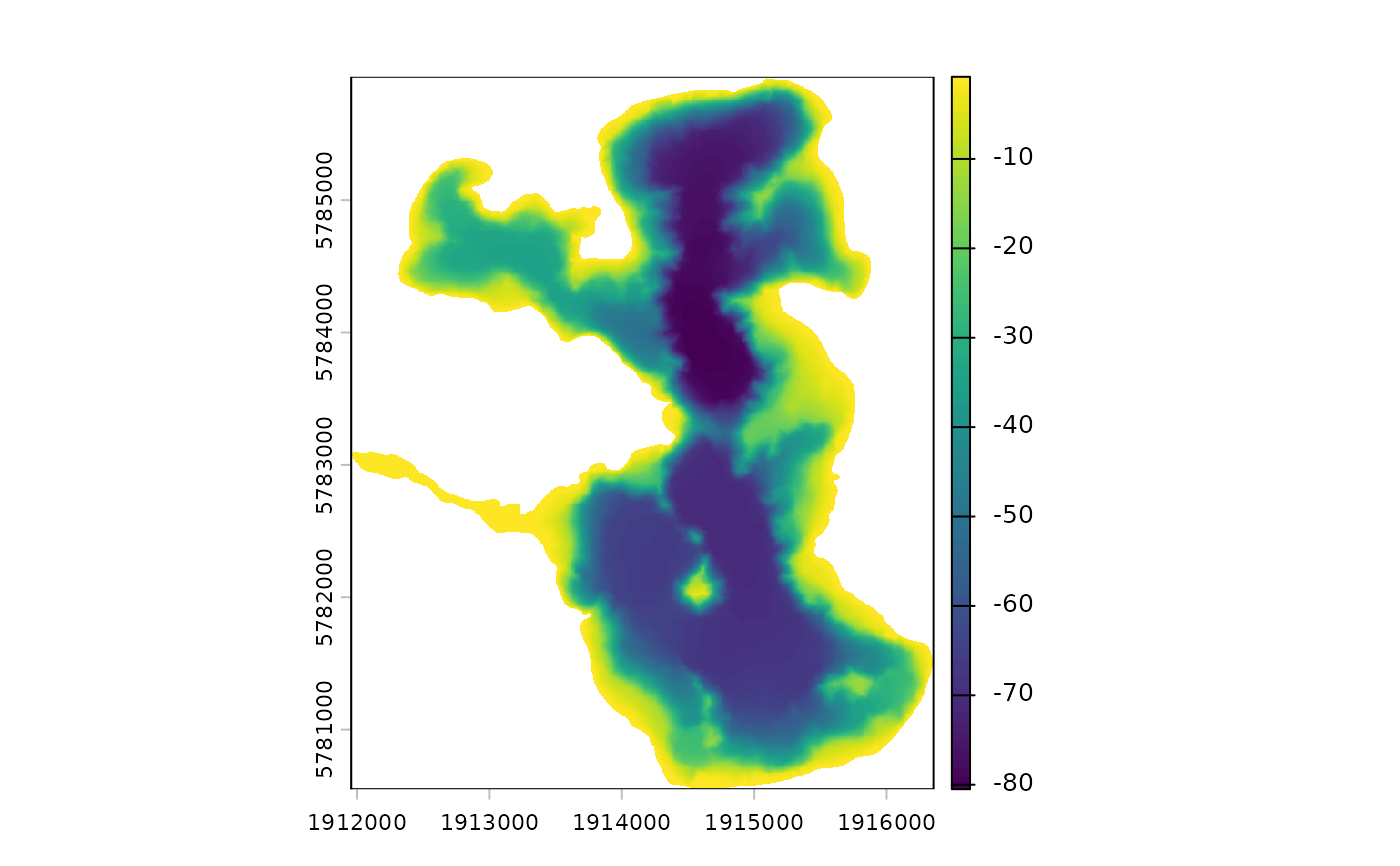
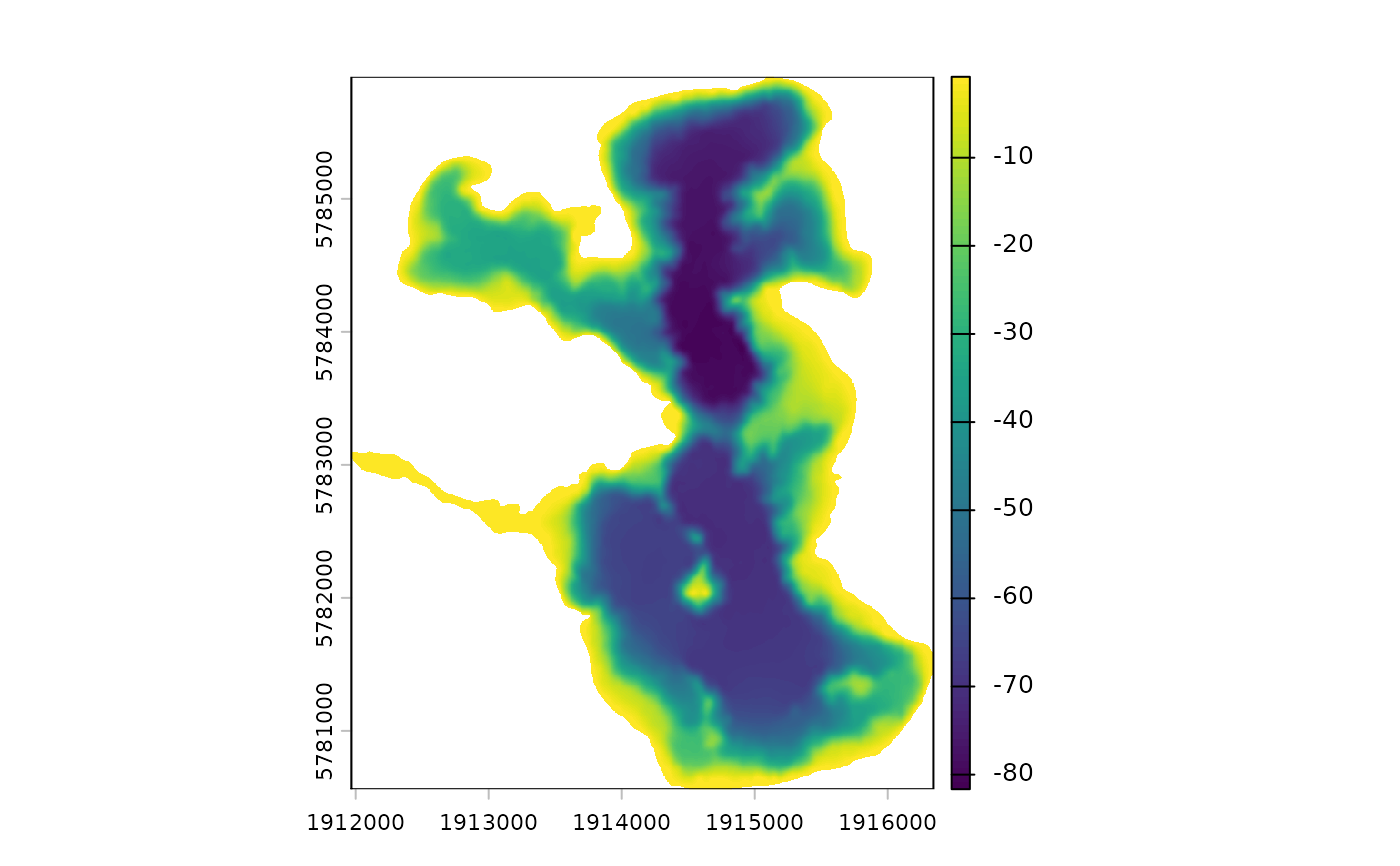
Deploying to gh-pages from @ limnotrack/bathytools@150190e74ad7a222cf4fa09d20802bcaa72053f2 🚀

diff --git a/reference/bathy_to_hypso.html b/reference/bathy_to_hypso.html
@@ -88,12 +88,17 @@ is <code>NULL</code>.</p></dd>
 <span class="r-in"><span>package <span class="op">=</span> <span class="st">"bathytools"</span><span class="op">)</span><span class="op">)</span></span></span>
 <span class="r-in"><span><span class="va">bathy_raster</span> <span class="op">&lt;-</span> <span class="fu"><a href="rasterise_bathy.html">rasterise_bathy</a></span><span class="op">(</span>shoreline <span class="op">=</span> <span class="va">shoreline</span>,</span></span>
 <span class="r-in"><span>depth_points <span class="op">=</span> <span class="va">depth_points</span>, crs <span class="op">=</span> <span class="fl">2193</span><span class="op">)</span></span></span>
-<span class="r-msg co"><span class="r-pr">#&gt;</span> Generating depth points... [2026-06-16 03:13:43]</span>
-<span class="r-msg co"><span class="r-pr">#&gt;</span> Finished! [2026-06-16 03:13:44]</span>
-<span class="r-msg co"><span class="r-pr">#&gt;</span> Interpolating to raster... [2026-06-16 03:13:44]</span>
+<span class="r-msg co"><span class="r-pr">#&gt;</span> <span style="color: #00BBBB;">ℹ</span> Generating depth points for interpolation</span>
+<span class="r-msg co"><span class="r-pr">#&gt;</span> Generating depth points... [2026-06-16 03:27:47]</span>
+<span class="r-msg co"><span class="r-pr">#&gt;</span> Finished! [2026-06-16 03:27:47]</span>
+<span class="r-msg co"><span class="r-pr">#&gt;</span> <span style="color: #00BB00;">✔</span> Generating depth points for interpolation <span style="color: #B2B2B2;">[245ms]</span></span>
+<span class="r-msg co"><span class="r-pr">#&gt;</span> </span>
+<span class="r-msg co"><span class="r-pr">#&gt;</span> <span style="color: #00BBBB;">ℹ</span> Interpolating depth points to raster</span>
 <span class="r-msg co"><span class="r-pr">#&gt;</span> Adjusting depths &gt;= 0 to  -0.81 m</span>
-<span class="r-msg co"><span class="r-pr">#&gt;</span> Finished! [2026-06-16 03:15:54]</span>
+<span class="r-msg co"><span class="r-pr">#&gt;</span> Finished! [2026-06-16 03:29:52]</span>
 <span class="r-plt img"><img src="bathy_to_hypso-1.png" alt="" width="700" height="433"></span>
+<span class="r-msg co"><span class="r-pr">#&gt;</span> <span style="color: #00BB00;">✔</span> Interpolating depth points to raster <span style="color: #B2B2B2;">[2m 5.7s]</span></span>
+<span class="r-msg co"><span class="r-pr">#&gt;</span> </span>
 <span class="r-in"><span><span class="va">hyps</span> <span class="op">&lt;-</span> <span class="fu">bathy_to_hypso</span><span class="op">(</span>bathy_raster <span class="op">=</span> <span class="va">bathy_raster</span><span class="op">)</span></span></span>
 </code></pre></div>
     </div>

diff --git a/reference/calculate_lake_volume.html b/reference/calculate_lake_volume.html
@@ -88,12 +88,17 @@ in each grid cell is returned.</p>
 <span class="r-in"><span>package <span class="op">=</span> <span class="st">"bathytools"</span><span class="op">)</span><span class="op">)</span></span></span>
 <span class="r-in"><span><span class="va">bathy_raster</span> <span class="op">&lt;-</span> <span class="fu"><a href="rasterise_bathy.html">rasterise_bathy</a></span><span class="op">(</span>shoreline <span class="op">=</span> <span class="va">shoreline</span>,</span></span>
 <span class="r-in"><span>depth_points <span class="op">=</span> <span class="va">depth_points</span>, crs <span class="op">=</span> <span class="fl">2193</span><span class="op">)</span></span></span>
-<span class="r-msg co"><span class="r-pr">#&gt;</span> Generating depth points... [2026-06-16 03:15:59]</span>
-<span class="r-msg co"><span class="r-pr">#&gt;</span> Finished! [2026-06-16 03:15:59]</span>
-<span class="r-msg co"><span class="r-pr">#&gt;</span> Interpolating to raster... [2026-06-16 03:15:59]</span>
+<span class="r-msg co"><span class="r-pr">#&gt;</span> <span style="color: #00BBBB;">ℹ</span> Generating depth points for interpolation</span>
+<span class="r-msg co"><span class="r-pr">#&gt;</span> Generating depth points... [2026-06-16 03:29:57]</span>
+<span class="r-msg co"><span class="r-pr">#&gt;</span> Finished! [2026-06-16 03:29:57]</span>
+<span class="r-msg co"><span class="r-pr">#&gt;</span> <span style="color: #00BB00;">✔</span> Generating depth points for interpolation <span style="color: #B2B2B2;">[185ms]</span></span>
+<span class="r-msg co"><span class="r-pr">#&gt;</span> </span>
+<span class="r-msg co"><span class="r-pr">#&gt;</span> <span style="color: #00BBBB;">ℹ</span> Interpolating depth points to raster</span>
 <span class="r-msg co"><span class="r-pr">#&gt;</span> Adjusting depths &gt;= 0 to  -0.81 m</span>
-<span class="r-msg co"><span class="r-pr">#&gt;</span> Finished! [2026-06-16 03:18:05]</span>
+<span class="r-msg co"><span class="r-pr">#&gt;</span> Finished! [2026-06-16 03:31:58]</span>
 <span class="r-plt img"><img src="calculate_lake_volume-1.png" alt="" width="700" height="433"></span>
+<span class="r-msg co"><span class="r-pr">#&gt;</span> <span style="color: #00BB00;">✔</span> Interpolating depth points to raster <span style="color: #B2B2B2;">[2m 2s]</span></span>
+<span class="r-msg co"><span class="r-pr">#&gt;</span> </span>
 <span class="r-in"><span><span class="fu">calculate_lake_volume</span><span class="op">(</span>bathy_raster <span class="op">=</span> <span class="va">bathy_raster</span><span class="op">)</span></span></span>
 <span class="r-out co"><span class="r-pr">#&gt;</span> [1] 435637277</span>
 <span class="r-in"><span></span></span>

diff --git a/reference/get_contours.html b/reference/get_contours.html
@@ -79,12 +79,17 @@ is <code>NULL</code>.</p></dd>
 <span class="r-in"><span>package <span class="op">=</span> <span class="st">"bathytools"</span><span class="op">)</span><span class="op">)</span></span></span>
 <span class="r-in"><span><span class="va">bathy_raster</span> <span class="op">&lt;-</span> <span class="fu"><a href="rasterise_bathy.html">rasterise_bathy</a></span><span class="op">(</span>shoreline <span class="op">=</span> <span class="va">shoreline</span>,</span></span>
 <span class="r-in"><span>depth_points <span class="op">=</span> <span class="va">depth_points</span>, crs <span class="op">=</span> <span class="fl">2193</span>, res <span class="op">=</span> <span class="fl">8</span><span class="op">)</span></span></span>
-<span class="r-msg co"><span class="r-pr">#&gt;</span> Generating depth points... [2026-06-16 03:18:11]</span>
-<span class="r-msg co"><span class="r-pr">#&gt;</span> Finished! [2026-06-16 03:18:11]</span>
-<span class="r-msg co"><span class="r-pr">#&gt;</span> Interpolating to raster... [2026-06-16 03:18:11]</span>
+<span class="r-msg co"><span class="r-pr">#&gt;</span> <span style="color: #00BBBB;">ℹ</span> Generating depth points for interpolation</span>
+<span class="r-msg co"><span class="r-pr">#&gt;</span> Generating depth points... [2026-06-16 03:32:05]</span>
+<span class="r-msg co"><span class="r-pr">#&gt;</span> Finished! [2026-06-16 03:32:05]</span>
+<span class="r-msg co"><span class="r-pr">#&gt;</span> <span style="color: #00BB00;">✔</span> Generating depth points for interpolation <span style="color: #B2B2B2;">[191ms]</span></span>
+<span class="r-msg co"><span class="r-pr">#&gt;</span> </span>
+<span class="r-msg co"><span class="r-pr">#&gt;</span> <span style="color: #00BBBB;">ℹ</span> Interpolating depth points to raster</span>
 <span class="r-msg co"><span class="r-pr">#&gt;</span> Adjusting depths &gt;= 0 to  -0.81 m</span>
-<span class="r-msg co"><span class="r-pr">#&gt;</span> Finished! [2026-06-16 03:18:29]</span>
+<span class="r-msg co"><span class="r-pr">#&gt;</span> Finished! [2026-06-16 03:32:23]</span>
 <span class="r-plt img"><img src="get_contours-1.png" alt="" width="700" height="433"></span>
+<span class="r-msg co"><span class="r-pr">#&gt;</span> <span style="color: #00BB00;">✔</span> Interpolating depth points to raster <span style="color: #B2B2B2;">[18.7s]</span></span>
+<span class="r-msg co"><span class="r-pr">#&gt;</span> </span>
 <span class="r-in"><span><span class="va">contours</span> <span class="op">&lt;-</span> <span class="fu">get_contours</span><span class="op">(</span>bathy_raster <span class="op">=</span> <span class="va">bathy_raster</span><span class="op">)</span></span></span>
 </code></pre></div>
     </div>

diff --git a/reference/get_shoreline.html b/reference/get_shoreline.html
@@ -71,12 +71,17 @@ shoreline will not be simplified.</p></dd>
 <span class="r-in"><span>package <span class="op">=</span> <span class="st">"bathytools"</span><span class="op">)</span><span class="op">)</span></span></span>
 <span class="r-in"><span><span class="va">bathy_raster</span> <span class="op">&lt;-</span> <span class="fu"><a href="rasterise_bathy.html">rasterise_bathy</a></span><span class="op">(</span>shoreline <span class="op">=</span> <span class="va">shoreline</span>,</span></span>
 <span class="r-in"><span>depth_points <span class="op">=</span> <span class="va">depth_points</span>, crs <span class="op">=</span> <span class="fl">2193</span>, res <span class="op">=</span> <span class="fl">8</span><span class="op">)</span></span></span>
-<span class="r-msg co"><span class="r-pr">#&gt;</span> Generating depth points... [2026-06-16 03:18:30]</span>
-<span class="r-msg co"><span class="r-pr">#&gt;</span> Finished! [2026-06-16 03:18:31]</span>
-<span class="r-msg co"><span class="r-pr">#&gt;</span> Interpolating to raster... [2026-06-16 03:18:31]</span>
+<span class="r-msg co"><span class="r-pr">#&gt;</span> <span style="color: #00BBBB;">ℹ</span> Generating depth points for interpolation</span>
+<span class="r-msg co"><span class="r-pr">#&gt;</span> Generating depth points... [2026-06-16 03:32:25]</span>
+<span class="r-msg co"><span class="r-pr">#&gt;</span> Finished! [2026-06-16 03:32:25]</span>
+<span class="r-msg co"><span class="r-pr">#&gt;</span> <span style="color: #00BB00;">✔</span> Generating depth points for interpolation <span style="color: #B2B2B2;">[253ms]</span></span>
+<span class="r-msg co"><span class="r-pr">#&gt;</span> </span>
+<span class="r-msg co"><span class="r-pr">#&gt;</span> <span style="color: #00BBBB;">ℹ</span> Interpolating depth points to raster</span>
 <span class="r-msg co"><span class="r-pr">#&gt;</span> Adjusting depths &gt;= 0 to  -0.81 m</span>
-<span class="r-msg co"><span class="r-pr">#&gt;</span> Finished! [2026-06-16 03:18:49]</span>
+<span class="r-msg co"><span class="r-pr">#&gt;</span> Finished! [2026-06-16 03:32:43]</span>
 <span class="r-plt img"><img src="get_shoreline-1.png" alt="" width="700" height="433"></span>
+<span class="r-msg co"><span class="r-pr">#&gt;</span> <span style="color: #00BB00;">✔</span> Interpolating depth points to raster <span style="color: #B2B2B2;">[18.7s]</span></span>
+<span class="r-msg co"><span class="r-pr">#&gt;</span> </span>
 <span class="r-in"><span><span class="va">shoreline2</span> <span class="op">&lt;-</span> <span class="fu">get_shoreline</span><span class="op">(</span>bathy_raster <span class="op">=</span> <span class="va">bathy_raster</span><span class="op">)</span></span></span>
 </code></pre></div>
     </div>

diff --git a/reference/merge_bathy_dem.html b/reference/merge_bathy_dem.html
@@ -98,12 +98,17 @@ to the catchment boundary. Requires catchment to be provided.</p></dd>
 <span class="r-in"><span>package <span class="op">=</span> <span class="st">"bathytools"</span><span class="op">)</span><span class="op">)</span></span></span>
 <span class="r-in"><span><span class="va">bathy_raster</span> <span class="op">&lt;-</span> <span class="fu"><a href="rasterise_bathy.html">rasterise_bathy</a></span><span class="op">(</span>shoreline <span class="op">=</span> <span class="va">shoreline</span>,</span></span>
 <span class="r-in"><span>depth_points <span class="op">=</span> <span class="va">depth_points</span>, crs <span class="op">=</span> <span class="fl">2193</span><span class="op">)</span></span></span>
-<span class="r-msg co"><span class="r-pr">#&gt;</span> Generating depth points... [2026-06-16 03:21:00]</span>
-<span class="r-msg co"><span class="r-pr">#&gt;</span> Finished! [2026-06-16 03:21:00]</span>
-<span class="r-msg co"><span class="r-pr">#&gt;</span> Interpolating to raster... [2026-06-16 03:21:00]</span>
+<span class="r-msg co"><span class="r-pr">#&gt;</span> <span style="color: #00BBBB;">ℹ</span> Generating depth points for interpolation</span>
+<span class="r-msg co"><span class="r-pr">#&gt;</span> Generating depth points... [2026-06-16 03:32:59]</span>
+<span class="r-msg co"><span class="r-pr">#&gt;</span> Finished! [2026-06-16 03:32:59]</span>
+<span class="r-msg co"><span class="r-pr">#&gt;</span> <span style="color: #00BB00;">✔</span> Generating depth points for interpolation <span style="color: #B2B2B2;">[182ms]</span></span>
+<span class="r-msg co"><span class="r-pr">#&gt;</span> </span>
+<span class="r-msg co"><span class="r-pr">#&gt;</span> <span style="color: #00BBBB;">ℹ</span> Interpolating depth points to raster</span>
 <span class="r-msg co"><span class="r-pr">#&gt;</span> Adjusting depths &gt;= 0 to  -0.81 m</span>
-<span class="r-msg co"><span class="r-pr">#&gt;</span> Finished! [2026-06-16 03:23:05]</span>
+<span class="r-msg co"><span class="r-pr">#&gt;</span> Finished! [2026-06-16 03:34:59]</span>
 <span class="r-plt img"><img src="merge_bathy_dem-1.png" alt="" width="700" height="433"></span>
+<span class="r-msg co"><span class="r-pr">#&gt;</span> <span style="color: #00BB00;">✔</span> Interpolating depth points to raster <span style="color: #B2B2B2;">[2m 0.3s]</span></span>
+<span class="r-msg co"><span class="r-pr">#&gt;</span> </span>
 <span class="r-in"><span><span class="va">dem_raster</span> <span class="op">&lt;-</span> <span class="fu">terra</span><span class="fu">::</span><span class="fu"><a href="https://rspatial.github.io/terra/reference/rast.html" class="external-link">rast</a></span><span class="op">(</span><span class="fu"><a href="https://rdrr.io/r/base/system.file.html" class="external-link">system.file</a></span><span class="op">(</span><span class="st">"extdata/dem_32m.tif"</span>,</span></span>
 <span class="r-in"><span>package <span class="op">=</span> <span class="st">"bathytools"</span><span class="op">)</span><span class="op">)</span></span></span>
 <span class="r-in"><span><span class="va">dem_bath</span> <span class="op">&lt;-</span> <span class="fu">merge_bathy_dem</span><span class="op">(</span>shoreline <span class="op">=</span> <span class="va">shoreline</span>, bathy_raster <span class="op">=</span> <span class="va">bathy_raster</span>,</span></span>

diff --git a/reference/rasterise_bathy.html b/reference/rasterise_bathy.html
@@ -136,12 +136,17 @@ and inverse distance weighting ('idw').</p></dd>
 <span class="r-in"><span>package <span class="op">=</span> <span class="st">"bathytools"</span><span class="op">)</span><span class="op">)</span></span></span>
 <span class="r-in"><span><span class="va">bathy</span> <span class="op">&lt;-</span> <span class="fu">rasterise_bathy</span><span class="op">(</span>shoreline <span class="op">=</span> <span class="va">shoreline</span>, depth_points <span class="op">=</span> <span class="va">depth_points</span>,</span></span>
 <span class="r-in"><span>crs <span class="op">=</span> <span class="fl">2193</span><span class="op">)</span></span></span>
-<span class="r-msg co"><span class="r-pr">#&gt;</span> Generating depth points... [2026-06-16 03:23:06]</span>
-<span class="r-msg co"><span class="r-pr">#&gt;</span> Finished! [2026-06-16 03:23:06]</span>
-<span class="r-msg co"><span class="r-pr">#&gt;</span> Interpolating to raster... [2026-06-16 03:23:06]</span>
+<span class="r-msg co"><span class="r-pr">#&gt;</span> <span style="color: #00BBBB;">ℹ</span> Generating depth points for interpolation</span>
+<span class="r-msg co"><span class="r-pr">#&gt;</span> Generating depth points... [2026-06-16 03:35:00]</span>
+<span class="r-msg co"><span class="r-pr">#&gt;</span> Finished! [2026-06-16 03:35:00]</span>
+<span class="r-msg co"><span class="r-pr">#&gt;</span> <span style="color: #00BB00;">✔</span> Generating depth points for interpolation <span style="color: #B2B2B2;">[182ms]</span></span>
+<span class="r-msg co"><span class="r-pr">#&gt;</span> </span>
+<span class="r-msg co"><span class="r-pr">#&gt;</span> <span style="color: #00BBBB;">ℹ</span> Interpolating depth points to raster</span>
 <span class="r-msg co"><span class="r-pr">#&gt;</span> Adjusting depths &gt;= 0 to  -0.81 m</span>
-<span class="r-msg co"><span class="r-pr">#&gt;</span> Finished! [2026-06-16 03:25:10]</span>
+<span class="r-msg co"><span class="r-pr">#&gt;</span> Finished! [2026-06-16 03:37:03]</span>
 <span class="r-plt img"><img src="rasterise_bathy-1.png" alt="" width="700" height="433"></span>
+<span class="r-msg co"><span class="r-pr">#&gt;</span> <span style="color: #00BB00;">✔</span> Interpolating depth points to raster <span style="color: #B2B2B2;">[2m 2.7s]</span></span>
+<span class="r-msg co"><span class="r-pr">#&gt;</span> </span>
 <span class="r-in"><span></span></span>
 </code></pre></div>
     </div>

diff --git a/reference/interpolate_points.html b/reference/interpolate_points.html
@@ -47,7 +47,7 @@
 <span>  islands <span class="op">=</span> <span class="cn">NULL</span>,</span>
 <span>  <span class="va">crs</span>,</span>
 <span>  res <span class="op">=</span> <span class="fl">2</span>,</span>
-<span>  method <span class="op">=</span> <span class="st">"nn"</span>,</span>
+<span>  method <span class="op">=</span> <span class="fu"><a href="https://rdrr.io/r/base/c.html" class="external-link">c</a></span><span class="op">(</span><span class="st">"MBA"</span>, <span class="st">"tps"</span>, <span class="st">"nn"</span>, <span class="st">"idw"</span><span class="op">)</span>,</span>
 <span>  n <span class="op">=</span> <span class="fl">1</span>,</span>
 <span>  m <span class="op">=</span> <span class="fl">1</span>,</span>
 <span>  h <span class="op">=</span> <span class="fl">8</span>,</span>
@@ -127,13 +127,12 @@ and 'idw' uses inverse distance weighting from the terra package.</p></dd>
 <span class="r-in"><span>                                  package <span class="op">=</span> <span class="st">"bathytools"</span><span class="op">)</span><span class="op">)</span></span></span>
 <span class="r-in"><span><span class="va">depth_points</span> <span class="op">&lt;-</span> <span class="fu"><a href="generate_depth_points.html">generate_depth_points</a></span><span class="op">(</span>shoreline <span class="op">=</span> <span class="va">shoreline</span>,</span></span>
 <span class="r-in"><span>depth_points <span class="op">=</span> <span class="va">depth_points</span><span class="op">)</span></span></span>
-<span class="r-msg co"><span class="r-pr">#&gt;</span> Generating depth points... [2026-06-16 03:18:49]</span>
-<span class="r-msg co"><span class="r-pr">#&gt;</span> Finished! [2026-06-16 03:18:49]</span>
+<span class="r-msg co"><span class="r-pr">#&gt;</span> Generating depth points... [2026-06-16 03:32:44]</span>
+<span class="r-msg co"><span class="r-pr">#&gt;</span> Finished! [2026-06-16 03:32:44]</span>
 <span class="r-in"><span><span class="va">bathy_raster</span> <span class="op">&lt;-</span> <span class="fu">interpolate_points</span><span class="op">(</span>depth_points <span class="op">=</span> <span class="va">depth_points</span>, shoreline <span class="op">=</span> <span class="va">shoreline</span>,</span></span>
 <span class="r-in"><span>crs <span class="op">=</span> <span class="fl">2193</span><span class="op">)</span></span></span>
-<span class="r-msg co"><span class="r-pr">#&gt;</span> Interpolating to raster... [2026-06-16 03:18:49]</span>
-<span class="r-msg co"><span class="r-pr">#&gt;</span> Adjusting depths &gt;= 0 to  -0.81 m</span>
-<span class="r-msg co"><span class="r-pr">#&gt;</span> Finished! [2026-06-16 03:20:59]</span>
+<span class="r-msg co"><span class="r-pr">#&gt;</span> Adjusting depths &gt;= 0 to  -0.82 m</span>
+<span class="r-msg co"><span class="r-pr">#&gt;</span> Finished! [2026-06-16 03:32:58]</span>
 <span class="r-plt img"><img src="interpolate_points-1.png" alt="" width="700" height="433"></span>
 <span class="r-in"><span></span></span>
 </code></pre></div>

diff --git a/reference/generate_depth_points.html b/reference/generate_depth_points.html
@@ -103,15 +103,15 @@ provided.</p></dd>
 <span class="r-in"><span><span class="co"># Generate depth points with points ----</span></span></span>
 <span class="r-in"><span><span class="va">depth_points</span> <span class="op">&lt;-</span> <span class="fu">generate_depth_points</span><span class="op">(</span>shoreline <span class="op">=</span> <span class="va">shoreline</span>,</span></span>
 <span class="r-in"><span>depth_points <span class="op">=</span> <span class="va">depth_points</span><span class="op">)</span></span></span>
-<span class="r-msg co"><span class="r-pr">#&gt;</span> Generating depth points... [2026-06-16 03:18:07]</span>
-<span class="r-msg co"><span class="r-pr">#&gt;</span> Finished! [2026-06-16 03:18:07]</span>
+<span class="r-msg co"><span class="r-pr">#&gt;</span> Generating depth points... [2026-06-16 03:32:00]</span>
+<span class="r-msg co"><span class="r-pr">#&gt;</span> Finished! [2026-06-16 03:32:00]</span>
 <span class="r-in"><span></span></span>
 <span class="r-in"><span><span class="co"># Generate depth points with contours ----</span></span></span>
 <span class="r-in"><span><span class="va">contours</span> <span class="op">&lt;-</span> <span class="fu"><a href="https://rdrr.io/r/base/readRDS.html" class="external-link">readRDS</a></span><span class="op">(</span><span class="fu"><a href="https://rdrr.io/r/base/system.file.html" class="external-link">system.file</a></span><span class="op">(</span><span class="st">"extdata/depth_contours.rds"</span>,</span></span>
 <span class="r-in"><span>package <span class="op">=</span> <span class="st">"bathytools"</span><span class="op">)</span><span class="op">)</span></span></span>
 <span class="r-in"><span><span class="va">depth_points</span> <span class="op">&lt;-</span> <span class="fu">generate_depth_points</span><span class="op">(</span>shoreline <span class="op">=</span> <span class="va">shoreline</span>,</span></span>
 <span class="r-in"><span>contours <span class="op">=</span> <span class="va">contours</span><span class="op">)</span></span></span>
-<span class="r-msg co"><span class="r-pr">#&gt;</span> Generating depth points... [2026-06-16 03:18:07]</span>
+<span class="r-msg co"><span class="r-pr">#&gt;</span> Generating depth points... [2026-06-16 03:32:00]</span>
 <span class="r-wrn co"><span class="r-pr">#&gt;</span> <span class="warning">Warning: </span>repeating attributes for all sub-geometries for which they may not be constant</span>
 <span class="r-wrn co"><span class="r-pr">#&gt;</span> <span class="warning">Warning: </span>repeating attributes for all sub-geometries for which they may not be constant</span>
 <span class="r-wrn co"><span class="r-pr">#&gt;</span> <span class="warning">Warning: </span>repeating attributes for all sub-geometries for which they may not be constant</span>
@@ -125,7 +125,7 @@ provided.</p></dd>
 <span class="r-wrn co"><span class="r-pr">#&gt;</span> <span class="warning">Warning: </span>repeating attributes for all sub-geometries for which they may not be constant</span>
 <span class="r-wrn co"><span class="r-pr">#&gt;</span> <span class="warning">Warning: </span>repeating attributes for all sub-geometries for which they may not be constant</span>
 <span class="r-msg co"><span class="r-pr">#&gt;</span> Warning: large number of points for interpolation (100695)</span>
-<span class="r-msg co"><span class="r-pr">#&gt;</span> Finished! [2026-06-16 03:18:11]</span>
+<span class="r-msg co"><span class="r-pr">#&gt;</span> Finished! [2026-06-16 03:32:05]</span>
 <span class="r-in"><span></span></span>
 </code></pre></div>
     </div>

diff --git a/articles/merge-bathy-dem.md b/articles/merge-bathy-dem.md
@@ -115,14 +115,20 @@ bathymetry raster.
 bathy_raster <- rasterise_bathy(shoreline = shoreline,
                                 depth_points = point_data, crs = 2193,
                                 res = 8)
-#> Generating depth points... [2026-06-16 03:25:20]
-#> Finished! [2026-06-16 03:25:20]
-#> Interpolating to raster... [2026-06-16 03:25:20]
+#> ℹ Generating depth points for interpolation
+#> Generating depth points... [2026-06-16 03:37:12]
+#> Finished! [2026-06-16 03:37:13]
+#> ✔ Generating depth points for interpolation [545ms]
+#> 
+#> ℹ Interpolating depth points to raster
 #> Adjusting depths >= 0 to  -0.81 m
-#> Finished! [2026-06-16 03:25:39]
+#> Finished! [2026-06-16 03:37:32]
 ```
 
 ![](merge-bathy-dem_files/figure-html/generate-bathy-raster-1.png)
+
+    #> ✔ Interpolating depth points to raster [19.3s]
+    #> 
 
 ``` r
 

diff --git a/reference/bathy_to_hypso.md b/reference/bathy_to_hypso.md
@@ -44,11 +44,16 @@ depth_points <- readRDS(system.file("extdata/depth_points.rds",
 package = "bathytools"))
 bathy_raster <- rasterise_bathy(shoreline = shoreline,
 depth_points = depth_points, crs = 2193)
-#> Generating depth points... [2026-06-16 03:13:43]
-#> Finished! [2026-06-16 03:13:44]
-#> Interpolating to raster... [2026-06-16 03:13:44]
+#> ℹ Generating depth points for interpolation
+#> Generating depth points... [2026-06-16 03:27:47]
+#> Finished! [2026-06-16 03:27:47]
+#> ✔ Generating depth points for interpolation [245ms]
+#> 
+#> ℹ Interpolating depth points to raster
 #> Adjusting depths >= 0 to  -0.81 m
-#> Finished! [2026-06-16 03:15:54]
+#> Finished! [2026-06-16 03:29:52]
 
+#> ✔ Interpolating depth points to raster [2m 5.7s]
+#> 
 hyps <- bathy_to_hypso(bathy_raster = bathy_raster)
 ```

diff --git a/reference/calculate_lake_volume.md b/reference/calculate_lake_volume.md
@@ -50,12 +50,17 @@ depth_points <- readRDS(system.file("extdata/depth_points.rds",
 package = "bathytools"))
 bathy_raster <- rasterise_bathy(shoreline = shoreline,
 depth_points = depth_points, crs = 2193)
-#> Generating depth points... [2026-06-16 03:15:59]
-#> Finished! [2026-06-16 03:15:59]
-#> Interpolating to raster... [2026-06-16 03:15:59]
+#> ℹ Generating depth points for interpolation
+#> Generating depth points... [2026-06-16 03:29:57]
+#> Finished! [2026-06-16 03:29:57]
+#> ✔ Generating depth points for interpolation [185ms]
+#> 
+#> ℹ Interpolating depth points to raster
 #> Adjusting depths >= 0 to  -0.81 m
-#> Finished! [2026-06-16 03:18:05]
+#> Finished! [2026-06-16 03:31:58]
 
+#> ✔ Interpolating depth points to raster [2m 2s]
+#> 
 calculate_lake_volume(bathy_raster = bathy_raster)
 #> [1] 435637277
 ```

diff --git a/reference/get_contours.md b/reference/get_contours.md
@@ -41,11 +41,16 @@ depth_points <- readRDS(system.file("extdata/depth_points.rds",
 package = "bathytools"))
 bathy_raster <- rasterise_bathy(shoreline = shoreline,
 depth_points = depth_points, crs = 2193, res = 8)
-#> Generating depth points... [2026-06-16 03:18:11]
-#> Finished! [2026-06-16 03:18:11]
-#> Interpolating to raster... [2026-06-16 03:18:11]
+#> ℹ Generating depth points for interpolation
+#> Generating depth points... [2026-06-16 03:32:05]
+#> Finished! [2026-06-16 03:32:05]
+#> ✔ Generating depth points for interpolation [191ms]
+#> 
+#> ℹ Interpolating depth points to raster
 #> Adjusting depths >= 0 to  -0.81 m
-#> Finished! [2026-06-16 03:18:29]
+#> Finished! [2026-06-16 03:32:23]
 
+#> ✔ Interpolating depth points to raster [18.7s]
+#> 
 contours <- get_contours(bathy_raster = bathy_raster)
 ```